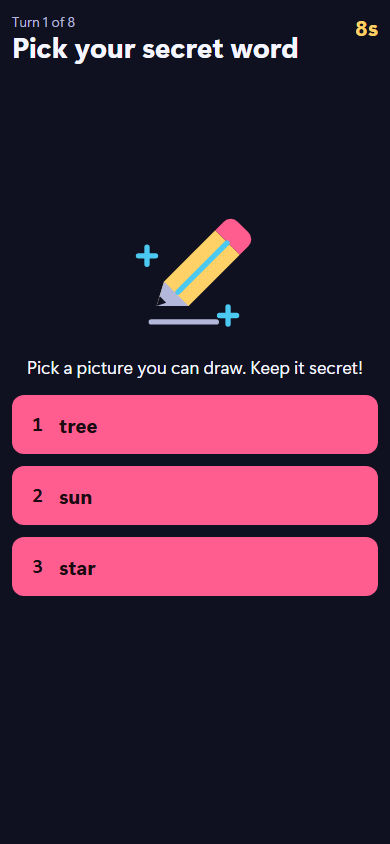
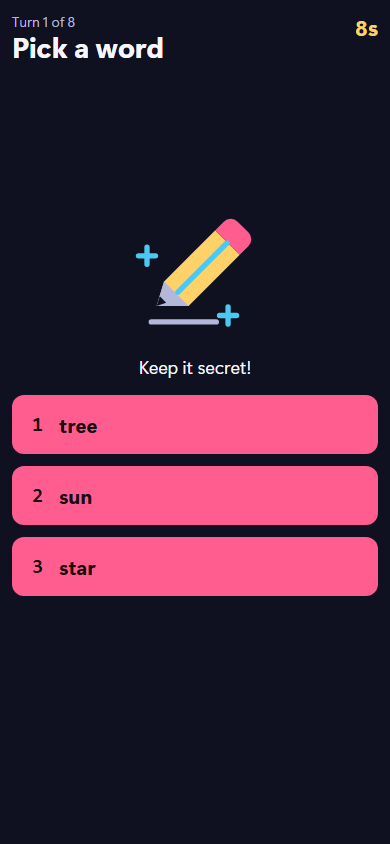
fix(draw-and-guess): fit word choices within reading clock

Changed region(s): [[0.1846, 0.0308, 0.7692, 0.0924], [0.0615, 0.4313, 0.9231, 0.4621]]

diff --git a/games/draw-and-guess/__tests__/choice-reading.test.tsx b/games/draw-and-guess/__tests__/choice-reading.test.tsx
@@ -1,0 +1,126 @@
+import { renderToStaticMarkup } from 'react-dom/server';
+import { describe, expect, it } from 'vitest';
+import { readingMs, wordCount } from '@partybox/game-sdk';
+import { PhoneOnlyProvider, ServerClockProvider } from '@partybox/game-sdk/ui';
+import { testPlayers } from '@partybox/game-sdk/testing';
+import { Controller } from '../client/Controller';
+import { DECKS } from '../server/content';
+import { game } from '../server/index';
+import { CHOOSE_MS } from '../server/types';
+import { T0 } from './helpers';
+
+const tiers = ['easy', 'medium', 'hard'] as const;
+const previousHeading = 'Pick your secret word';
+const previousInstruction = 'Pick a picture you can draw. Keep it secret!';
+
+/** Highest word counts bound every eligible hand; longer strings break ties for fit review. */
+function longestRead(words: readonly string[]): string[] {
+  return [...words].sort((a, b) => wordCount(b) - wordCount(a) || b.length - a.length);
+}
+
+function worstHand(difficulty: string): string[] {
+  return difficulty === 'mixed'
+    ? tiers.map((tier) => longestRead(DECKS[tier]!)[0]!)
+    : longestRead(DECKS[difficulty]!).slice(0, 3);
+}
+
+function renderChoose(difficulty: string, choices: string[], phoneOnly: boolean): string {
+  const state = {
+    ...game.init({
+      players: testPlayers(8),
+      settings: { difficulty },
+      seed: 42,
+      now: T0,
+      presence: { mode: 'together' as const, phoneOnly },
+    }),
+    choices,
+  };
+  const view = { ...game.controllerView(state, state.drawer), vip: null };
+  return renderToStaticMarkup(
+    <ServerClockProvider offsetMs={T0 - Date.now()}>
+      <PhoneOnlyProvider value={phoneOnly}>
+        <Controller view={view} me={state.players[state.drawer]!} send={() => undefined} />
+      </PhoneOnlyProvider>
+    </ServerClockProvider>,
+  );
+}
+
+function plainText(markup: string): string {
+  return markup
+    .replace(/<[^>]+>/g, '')
+    .replace(/&amp;/g, '&')
+    .replace(/&quot;/g, '"')
+    .replace(/&#x27;|&#39;/g, "'")
+    .replace(/&lt;/g, '<')
+    .replace(/&gt;/g, '>')
+    .replace(/\s+/g, ' ')
+    .trim();
+}
+
+/**
+ * Core action copy is the rendered artist h2, the instruction immediately before the secret
+ * choices group, and the three button words. Turn/clock metadata, accessible group labels and
+ * numeric button indexes repeat across turns and are excluded from this new-action reading.
+ */
+function actionCopy(markup: string): { heading: string; instruction: string; words: string[] } {
+  const heading = /<h2\b[^>]*>([\s\S]*?)<\/h2>/.exec(markup)?.[1];
+  const groupAt = markup.indexOf('aria-label="Secret word choices"');
+  expect(groupAt).toBeGreaterThan(-1);
+  const paragraphs = [...markup.slice(0, groupAt).matchAll(/<p\b[^>]*>([\s\S]*?)<\/p>/g)];
+  const instruction = paragraphs.at(-1)?.[1];
+  const buttons = [...markup.slice(groupAt).matchAll(/<button\b[^>]*>([\s\S]*?)<\/button>/g)];
+  expect(heading).toBeDefined();
+  expect(instruction).toBeDefined();
+  expect(buttons).toHaveLength(3);
+  return {
+    heading: plainText(heading!),
+    instruction: plainText(instruction!),
+    words: buttons.map((button) =>
+      plainText(button[1]!.replace(/<span\b[^>]*aria-hidden="true"[^>]*>\s*\d+\s*<\/span>/g, '')),
+    ),
+  };
+}
+
+describe('the artist can read every eligible hand before the choice timeout', () => {
+  it.each([...tiers, 'mixed'])(
+    'fits the longest %s action copy on a phone with a TV and a phone-only stage',
+    (difficulty) => {
+      const choices = worstHand(difficulty);
+      expect(new Set(choices).size).toBe(3);
+      const metrics: {
+        phoneOnly: boolean;
+        words: number;
+        milliseconds: number;
+        savedMs: number;
+      }[] = [];
+      for (const phoneOnly of [false, true]) {
+        const copy = actionCopy(renderChoose(difficulty, choices, phoneOnly));
+        expect(copy.heading).toBe('Pick a word');
+        expect(copy.instruction).toBe('Keep it secret!');
+        expect(copy.words).toEqual(choices);
+        const text = [copy.heading, copy.instruction, ...copy.words].join(' ');
+        const milliseconds = readingMs(wordCount(text), { ui: true });
+        const previousText = [previousHeading, previousInstruction, ...copy.words].join(' ');
+        const previousMs = readingMs(wordCount(previousText), { ui: true });
+        expect(milliseconds).toBeLessThanOrEqual(CHOOSE_MS);
+        expect(previousMs).toBeGreaterThan(CHOOSE_MS);
+        expect(previousMs).toBeGreaterThan(milliseconds);
+        if (difficulty === 'hard' || difficulty === 'mixed') {
+          // Keeping the old four-word heading still costs 8,011 ms after shortening the instruction.
+          const instructionOnly = [previousHeading, copy.instruction, ...copy.words].join(' ');
+          expect(readingMs(wordCount(instructionOnly), { ui: true })).toBeGreaterThan(CHOOSE_MS);
+        }
+        metrics.push({
+          phoneOnly,
+          words: wordCount(text),
+          milliseconds,
+          savedMs: previousMs - milliseconds,
+        });
+      }
+      console.info(
+        'Artist choice reading budget:',
+        JSON.stringify({ difficulty, choices, metrics }),
+      );
+    },
+  );
+});

diff --git a/jobs/P04-draw-and-guess/media/choose-artist.html b/jobs/P04-draw-and-guess/media/choose-artist.html
@@ -862,7 +862,7 @@ ight is the :root default above) ────────
         <header class="_header_49b69d">
           <div class="_heading_49b69d">
             <p class="_kicker_49b69d">Turn 1 of 8</p>
-            <h2 class="_title_49b69d" data-mask="false">Pick your secret word</h2>
+            <h2 class="_title_49b69d" data-mask="false">Pick a word</h2>
           </div>
           <p class="_clock_49b69d" role="timer" aria-label="Time left">8s</p>
         </header>
@@ -888,7 +888,7 @@ ight is the :root default above) ────────
               stroke-linecap="round"
             ></path>
           </svg>
-          <p>Pick a picture you can draw. Keep it secret!</p>
+          <p>Keep it secret!</p>
           <div class="_choices_49b69d" role="group" aria-label="Secret word choices">
             <button type="button"><span aria-hidden="true">1</span>tree</button
             ><button type="button"><span aria-hidden="true">2</span>sun</button

diff --git a/games/draw-and-guess/client/Controller.tsx b/games/draw-and-guess/client/Controller.tsx
@@ -68,7 +68,7 @@ export function Controller({
   const title =
     phase === 'choose'
       ? view.isDrawer && player
-        ? L('Pick your secret word')
+        ? L('Pick a word')
         : L('{name} is choosing', { name: view.drawerName })
       : phase === 'draw'
         ? view.isDrawer && player
@@ -133,7 +133,7 @@ export function Controller({
       {phase === 'choose' && view.isDrawer && player ? (
         <div className={styles.choose}>
           <Pencil />
-          <p>{L('Pick a picture you can draw. Keep it secret!')}</p>
+          <p>{L('Keep it secret!')}</p>
           <div className={styles.choices} role="group" aria-label={L('Secret word choices')}>
             {view.choices?.map((word, index) => (
               <button

diff --git a/jobs/P04-draw-and-guess/LOOP.md b/jobs/P04-draw-and-guess/LOOP.md
@@ -41,3 +41,5 @@ R18: Offline roster seats are labeled in words and accessible role marks, preser
 R19: Four unambiguous regional spelling pairs are accepted exactly: donut/doughnut, airplane/aeroplane, snowplow/snowplough and lasagna/lasagne. Twenty checks prove equal points once, private typo feedback, unchanged normalization and zero collisions among all300content words. Ordinary spelling rejection drops4→0pairs; synonyms remain deliberate exact-word gameplay.
 
 R20: A local FIFO sender spaces every ink/edit packet by at least80ms, while strongest-bend simplification keeps active packets within24points. Continuous60–240Hz finger sampling remains local; quick dots, release tails and edits drain in revision order. Eight pure regressions measure≤13packets in every rolling second versus the SDK limit20, preserve corners/endpoints, prohibit catch-up bursts and discard paused/unmounted work. The final native18-packet gesture still takes one Undo. Full scoped suite:246checks,7,000terminating matches; refreshed mutation campaign20/20caught. Remaining candidates are extreme synthetic tap backlog, broader synonym policy, general bot image understanding, extra drawing tools and cosmetic label styling.
+
+R21: Green CI38193636532 passed in48s. The next eight-stranger reading pass found that the longest choice hand needed10,608ms of SDK reading time inside an8,000ms beat. Artist copy is now “Pick a word” / “Keep it secret!”; the worst budget drops3,030ms to7,578ms. Easy/medium bounds are6,279/7,145ms. Four checks cover the actual rendered action heading, instruction and buttons on both phone surfaces; all14focused reading/evidence checks pass. Turn/clock metadata and repeated numeric indexes are excluded from new-action reading. Rules, choice deadline and seeded play remain unchanged.

diff --git a/jobs/P04-draw-and-guess/VERIFY.md b/jobs/P04-draw-and-guess/VERIFY.md
@@ -154,3 +154,18 @@ Final `pnpm.cmd format` passes, exit0. Final formatting followed browser output;
 `node jobs/P04-draw-and-guess/tools/hash-media.mjs` hashes all66HTML/PNG files
 (2,080,808bytes, under10MB). `git diff --check` passes. No game source changed
 after the246-test suite; only formatting and evidence/documentation followed.
+
+R21: `pnpm.cmd vitest run games/draw-and-guess/__tests__/choice-reading.test.tsx games/draw-and-guess/__tests__/evidence.test.tsx --maxWorkers=1 --pool=threads`
+with WRITE_EVIDENCE=1 passes14checks, exit0, in1.14s. Four added cases render
+eight artist screens using the highest-word-count legal hands. The SDK
+new-action reading budget drops3,030ms per hand; worst10,608→7,578ms, within
+the existing8,000ms clock. Shortening only the instruction would leave8,011ms,
+so the artist heading also shrinks. CI38193636532 passed48s before this review.
+
+R21 final `pnpm.cmd typecheck` passes, exit0. The new SSR fixture supplies the
+SDK's required `vip:null`; the initial missing-field compiler failure was fixed.
+`node jobs/P04-draw-and-guess/tools/capture.mjs` recaptures all33screens with
+zero overflow and closes its one browser in finally. Scoped Prettier follows
+capture output; `node jobs/P04-draw-and-guess/tools/hash-media.mjs` hashes66files
+totaling2,076,820bytes. Server mechanics are unchanged since the246-test run;
+CI will run all250checks including the four new rendered-copy cases.

diff --git a/jobs/P04-draw-and-guess/NEXT.md b/jobs/P04-draw-and-guess/NEXT.md
@@ -9,11 +9,14 @@ Full scoped verification passes 246 tests in 23 files with one thread worker;
 all 7,000 seeded matches terminate. Typecheck passes. The native browser
 passes 24 interaction checks; all 33 captures fit; 20/20 mutants are caught.
 
-Final formatting/hashing and CI are the remaining release checks. The browser
+Refreshed CI is the remaining release check. The browser
 harness bounds close RPCs and cleans its unique Windows profile to handle
 launcher PID handoff. Never launch another browser before current cleanup.
 
-After CI is green, do three consecutive KEEP GOING reviews and log their five
+R21 shortens artist choice copy to fit the worst hand's7,578ms SDK reading
+budget within8s;14focused reading/evidence checks and typecheck pass. All33
+recaptured screens fit, and all66media hashes are current (2,076,820bytes).
+Finish CI, then do three consecutive KEEP GOING reviews and log their five
 remaining candidates. Current candidates are extreme synthetic tap backlog,
 broader synonym policy, general bot image understanding, extra drawing tools
 and cosmetic label styling. No-gain count is zero until these reviews finish.
